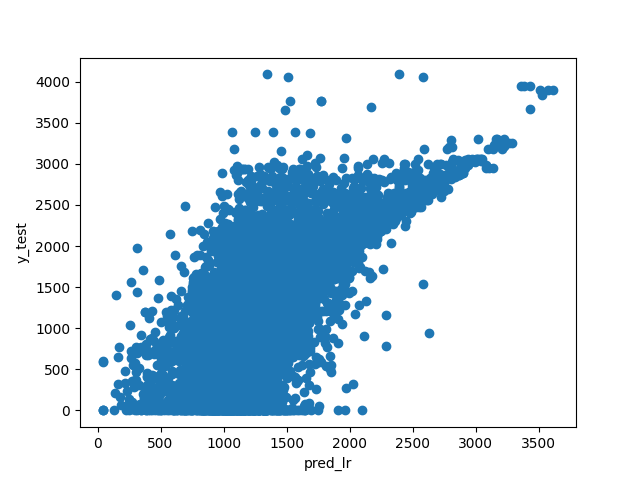
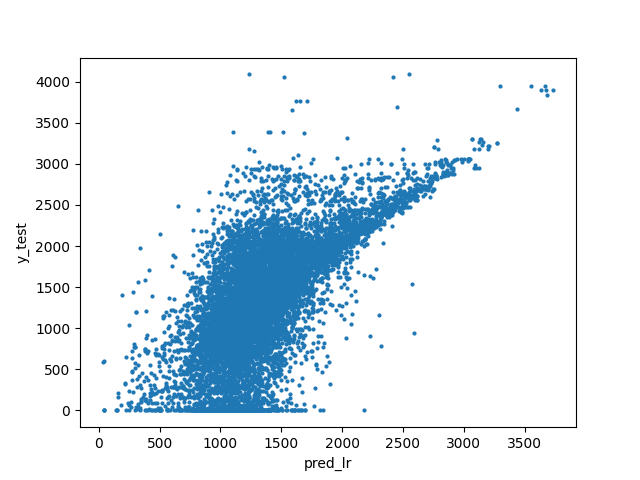
characteristics の保存

diff --git a/src/bin/preprocess_characteristics.py b/src/bin/preprocess_characteristics.py
@@ -1,0 +1,30 @@
+import pickle
+from math import ceil
+
+import pandas as pd
+from tqdm import tqdm
+
+from src.lib.submissions import load_all_available_submissions, get_source_codes
+from src.single_characteristics.analyze_characteristics import characteristics
+
+
+def preprocess_characteristics():
+    submissions = load_all_available_submissions()
+
+    batch_size = 50000
+    for i in range(ceil(len(submissions) / batch_size)):
+        subs = submissions[batch_size * i:batch_size * (i + 1)]
+        source_codes = get_source_codes(subs)
+
+        x = pd.DataFrame()
+        for (func, func_name, subject) in characteristics:
+            features = func(tqdm(source_codes[subject], leave=False, desc=func_name))
+            x[func_name] = features
+
+        for (submission, chara) in zip(subs, x.values):
+            with open("characteristics/{}.pickle".format(submission.submission_id), "wb") as f:
+                pickle.dump(chara, f)
+
+
+print("Make sure that these directories are exist: [characteristics]")
+preprocess_characteristics()

diff --git a/src/bin/random_forest.py b/src/bin/random_forest.py
@@ -65,7 +65,7 @@ def create_and_train_model() -> RandomForestRegressor:
 
         plt.xlabel("pred_lr")
         plt.ylabel("y_test")
-        plt.scatter(pred_lr, y_test)
+        plt.scatter(pred_lr, y_test , s=4)
         plt.savefig("figs/predict_{}.png".format(i))
 
         plt.cla()
